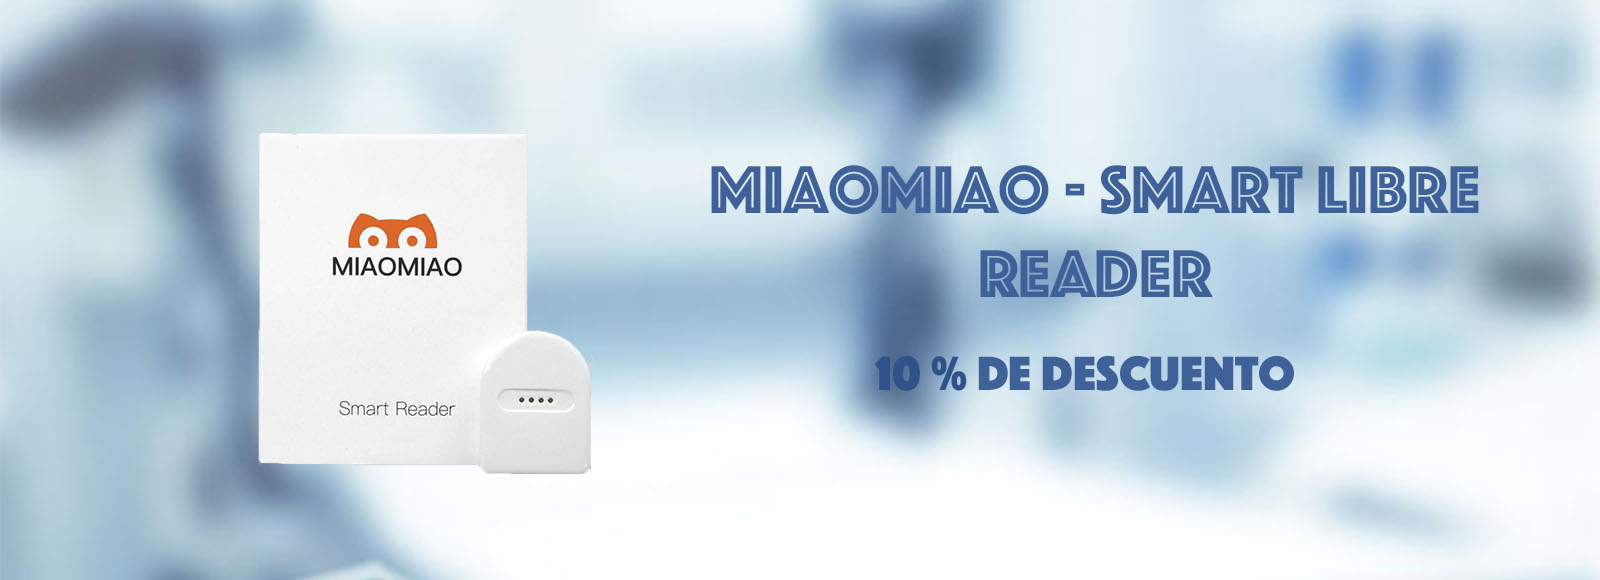
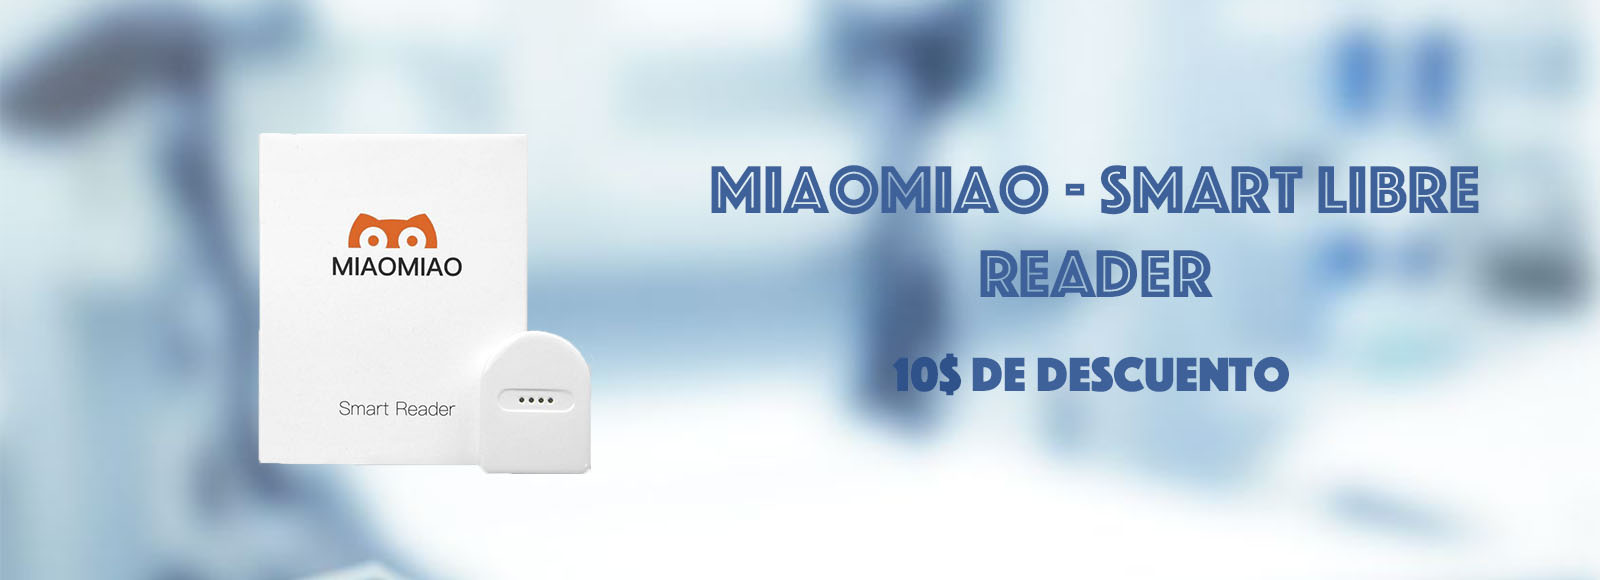
- Design changes

Changed region(s): [[0.5312, 0.5897, 0.8125, 0.6828]]

diff --git a/index.html b/index.html
@@ -109,7 +109,7 @@
                     <h4 class="texto-product">Miaomiao - Smart Libre Reader</h4>
                     <h5 class="texto-product">Lecturas continuas de glucosa cada 5 minutos directamente a su dispositivo.</h5>
                     <h4 class="texto-product texto-rojo">10$ de descuento<br></h4>
-                    <h4 class="texto-product"><strike>$199.00</strike> - $189.00<br></h4>
+                    <h4 class="texto-product"><strike>$199.00</strike> - $189.00 ≃ 167.00€<br></h4>
                     <a href="http://miaomiao.refr.cc/danfg95" target="_blank" class="btn btn_products">Conseguir descuento</a>
                 </div>
             </div>

diff --git a/seguridadsocial.html b/seguridadsocial.html
@@ -64,7 +64,7 @@
 
 
 <!-- Header Carousel -->
-    <header id="myCarousel" class="carousel slide">
+    <header id="myCarousel" class="carousel slide w-75">
         <!-- Indicators -->
         <ol class="carousel-indicators">
             <li data-target="#myCarousel" data-slide-to="0" class="active carrousel-ind"></li>

diff --git a/css/segsocial.css b/css/segsocial.css
@@ -69,8 +69,9 @@
   }
 }
 
-@media (min-width: 992px) and (max-width: 1199px) {
-  .btn_products {
-    font-size: 70%;
-  }
+@media(max-width:767px) {
+  .moblie-video{
+    width: 400px;
+    height: 225px;
+}
 }

diff --git a/css/carousel.css b/css/carousel.css
@@ -54,10 +54,9 @@ footer {
     }
 
     header.carousel .carousel {
-        height: 20%;
+        height: 70%;
     }
 }
-
 
 /*Para cambiar cosas relacionadas con el texto del carrousel*/
 .carousel-text {
